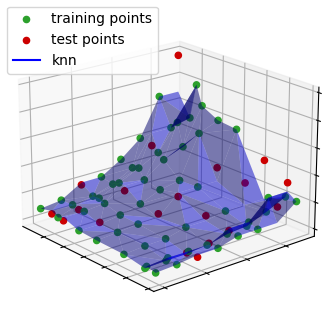
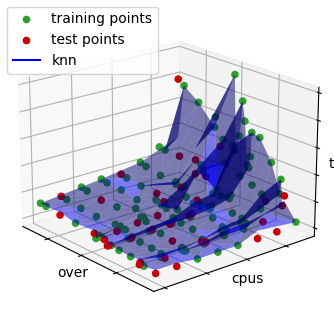
plot surface refactor

diff --git a/project/models/plot_surface_multi.py b/project/models/plot_surface_multi.py
@@ -1,23 +1,20 @@
 import argparse
 import os
 from os.path import join
-from os import getenv
 import sys
 
 import joblib
 import pandas as pd
 import matplotlib.pyplot as plt
-import tkinter
 import matplotlib
-
-from project.models.common import get_errors
 
 matplotlib.use('TkAgg')
 
 sys.path.append('.')
 
-from project.models.details import get_model_filepath, ModelDetails, get_model_name
-from project.models.scale import init_scale, transform_x, transform_y, inverse_transform_y
+from project.models.common import get_errors, get_model_details_for_algorithm, get_color, init_scale_from_train_set
+from project.models.details import get_model_filepath, ModelDetails
+from project.models.scale import transform_x, inverse_transform_y
 from project.utils.app_ids import app_name_to_id
 from project.utils.logger import logger
 from project.definitions import ROOT_DIR
@@ -49,22 +46,12 @@ if __name__ == "__main__":
     if df_err is not None or df_test_err is not None or df_train_err is not None:
         raise ValueError(f'data frame load err')
 
-    x = df.loc[:, df.columns != DataFrameColumns.EXECUTION_TIME]
+    x_origin = df.loc[:, df.columns != DataFrameColumns.EXECUTION_TIME]
     x_test = df_test.loc[:, df_test.columns != DataFrameColumns.EXECUTION_TIME]
     x_train = df_train.loc[:, df_train.columns != DataFrameColumns.EXECUTION_TIME]
     y = df.loc[:, df.columns == DataFrameColumns.EXECUTION_TIME]
     y_test = df_test.loc[:, df_test.columns == DataFrameColumns.EXECUTION_TIME]
     y_train = df_train.loc[:, df_train.columns == DataFrameColumns.EXECUTION_TIME]
-    init_scale(
-        df_train.loc[:, df_train.columns != DataFrameColumns.EXECUTION_TIME],
-        df_train.loc[:, df_train.columns == DataFrameColumns.EXECUTION_TIME]
-    )
-    x_test_scaled = transform_x(x_test)
-    x_scaled = transform_x(x)
-    x_train_scaled = transform_x(x_train)
-    y_train_scaled = transform_y(y_train)
-    scaled_x_train_df = pd.DataFrame(x_train_scaled, columns=x.columns)
-    scaled_y_train_df = pd.DataFrame(y_train_scaled, columns=y.columns)
     x_plot_train = x_train[DataFrameColumns.OVERALL_SIZE]
     y_plot_train = x_train[DataFrameColumns.CPUS]
     z_plot_train = y_train[DataFrameColumns.EXECUTION_TIME]
@@ -73,12 +60,13 @@ if __name__ == "__main__":
     z_plot_test = y_test[DataFrameColumns.EXECUTION_TIME]
     # plot data points
     ax = plt.axes(projection='3d')
-    #ax.set_xlabel('OVER', linespacing=0.1, labelpad=0.1)
-    ax.xaxis._axinfo['label']['space_factor'] = 0.1
+    ax.set_xlabel('over', linespacing=0.1, labelpad=-12)
+    ax.set_ylabel('cpus', linespacing=0.1, labelpad=-12)
+    ax.set_zlabel('t', linespacing=0.1, labelpad=-15)
     ax.tick_params(
-        axis='both',          # changes apply to the x-axis
-        which='both',      # both major and minor ticks are affected
-        bottom=False,      # ticks along the bottom edge are off
+        axis='both',  # changes apply to the x-axis
+        which='both',  # both major and minor ticks are affected
+        bottom=False,  # ticks along the bottom edge are off
         top=False,
         left=False,  # ticks along the bottom edge are off
         right=False,
@@ -87,65 +75,49 @@ if __name__ == "__main__":
         labelright=False,
         labelleft=False
     )
-    #ax.set_ylabel('CPUS')
-    #ax.set_zlabel('TIME')
     ax.dist = 8
     ax.scatter(x_plot_train, y_plot_train, z_plot_train, c='#2ca02c', alpha=1, label='training points')
     ax.scatter(x_plot_test, y_plot_test, z_plot_test, label='test points', c='#cc0000', alpha=1)
-    # Load SVR model
-    svr_model_details = ModelDetails(args.app_name, 1.0, True, False)
-    svr_model_filepath, err = get_model_filepath('svr', svr_model_details)
+    # Load model details
+    model_details = get_model_details_for_algorithm(args.app_name, args.alg)
+
+    if model_details.scale:
+        init_scale_from_train_set(model_details, app_id)
+
+    x_test = pd.DataFrame(transform_x(x_test), columns=x_test.columns)
+    x = pd.DataFrame(transform_x(x_origin), columns=x_origin.columns)
+    # Load model
+    model_filepath, err = get_model_filepath(args.alg, model_details)
 
     if err is not None:
         raise ValueError(err)
 
-    svr_model = joblib.load(svr_model_filepath)
-    z_svr = svr_model.predict(x_scaled)
-    # Load KNN model
-    knn_model_details = ModelDetails(args.app_name, 1.0, False, False)
-    knn_model_filepath, err = get_model_filepath('knn', knn_model_details)
-
-    if err is not None:
-        raise ValueError(err)
-
-    knn_model = joblib.load(knn_model_filepath)
-    z_knn = knn_model.predict(x)
-    z_knn_test = knn_model.predict(x_test)
+    model = joblib.load(model_filepath)
+    z_all = model.predict(x)
     # Efficiency
-    z_svr_test = svr_model.predict(x_test_scaled)
-    z_svr_test_inverse = inverse_transform_y(z_svr_test)
+    z_test = model.predict(x_test)
+    z_test_inverse = inverse_transform_y(z_test)
     y_test_list = list(y_test[DataFrameColumns.EXECUTION_TIME])
     y_train_list = list(y_train[DataFrameColumns.EXECUTION_TIME])
-    predictions = z_svr_test_inverse if args.alg == 'svr' else z_knn_test
-    errors, errors_rel = get_errors(y_test_list, predictions)
+    errors, errors_rel = get_errors(y_test_list, z_test_inverse)
     logger.info('############### SUMMARY ##################')
     logger.info('avg time [s] = %s' % str(sum(y_test_list) / len(y_test_list)))
     logger.info('avg error [s] = %s' % str(sum(errors) / len(errors)))
     logger.info('avg error relative [percentage] = %s' % str(sum(errors_rel) / len(errors_rel)))
-
-    if args.alg == 'svr':
-        logger.info(f'best params: {str(svr_model.get_params())}')
-    elif args.alg == 'knn':
-        logger.info(f'best params: {str(knn_model.get_params())}')
-
+    logger.info(f'best params: {str(model.get_params())}')
     # Plot prediction surface
-    z_svr_inverse = inverse_transform_y(z_svr)
-    x_plot = x[DataFrameColumns.OVERALL_SIZE].to_numpy()
-    y_plot = x[DataFrameColumns.CPUS].to_numpy()
-
-    if args.alg == 'svr':
-        ax.plot_trisurf(x_plot, y_plot, z_svr_inverse, alpha=0.5, color='y')
-        fake_legend_point = matplotlib.lines.Line2D([0], [0], linestyle="solid", c='y')
-    else:
-        ax.plot_trisurf(x_plot, y_plot, z_knn, alpha=0.5, color='b')
-        fake_legend_point = matplotlib.lines.Line2D([0], [0], linestyle="solid", c='b')
+    z_inverse = inverse_transform_y(z_all)
+    x_plot = x_origin[DataFrameColumns.OVERALL_SIZE].to_numpy()
+    y_plot = x_origin[DataFrameColumns.CPUS].to_numpy()
+    ax.plot_trisurf(x_plot, y_plot, z_inverse, alpha=0.5, color=get_color(args.alg))
+    fake_legend_point = matplotlib.lines.Line2D([0], [0], linestyle="solid", c=get_color(args.alg))
 
     plt.margins()
     plt.gcf().autofmt_xdate()
     handles, labels = ax.get_legend_handles_labels()
     handles.append(fake_legend_point)
     labels.append(args.alg)
-    ax.legend(handles, labels)
+    ax.legend(handles, labels, loc='upper left')
     ax.view_init(elev=20., azim=140)
     model_scheme = ModelDetails(args.app_name, 1.0, True, False)
     fig_path = os.path.join(ROOT_DIR, 'models', 'figures', '_'.join([args.alg, args.app_name, 'surf.png']))
